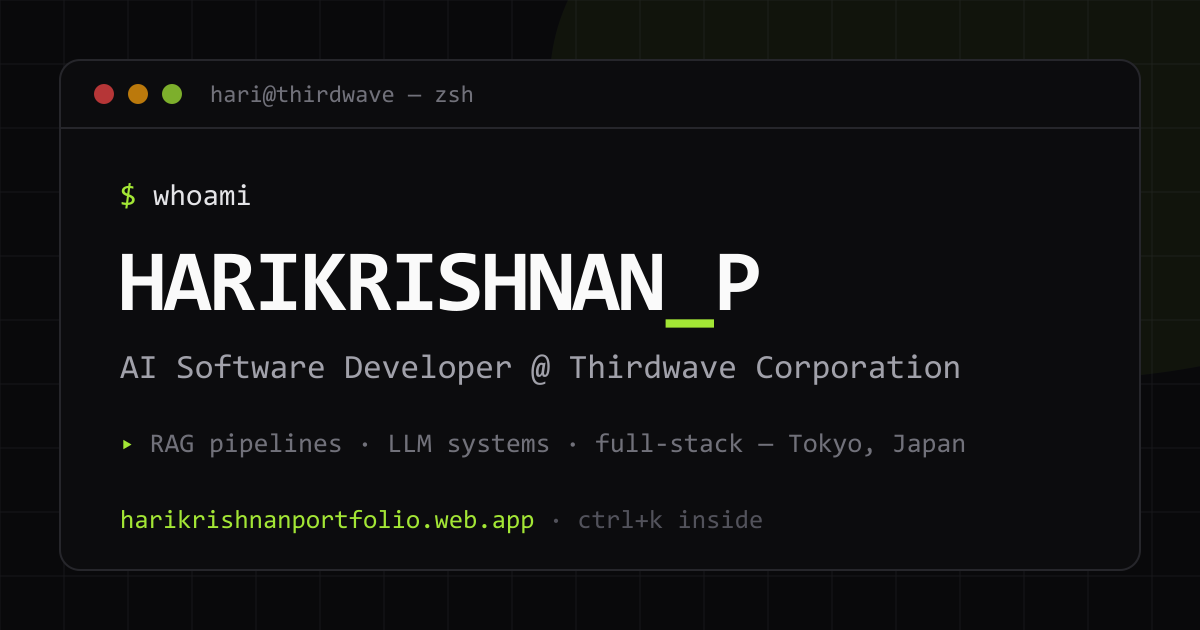
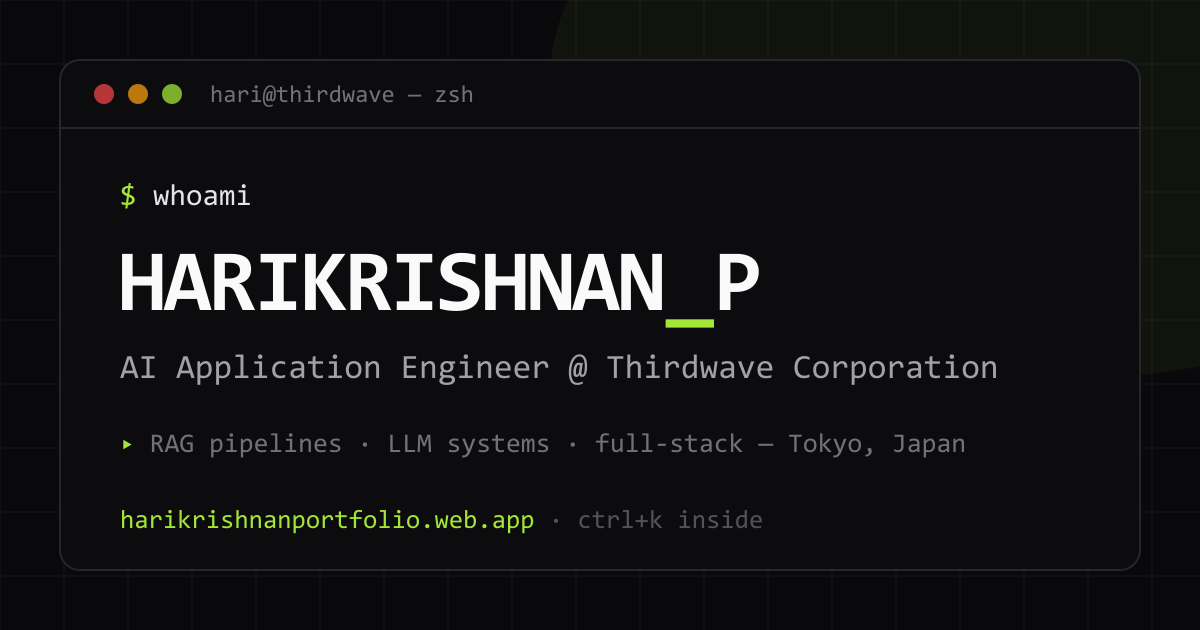
Update site content from latest resume

Changed region(s): [[0.1233, 0.5429, 0.8325, 0.6032]]

diff --git a/src/i18n.jsx b/src/i18n.jsx
@@ -2,6 +2,7 @@ import { createContext, useContext, useEffect, useState } from 'react'
 
 const T = {
   en: {
+    resume: '/assets/P.HARIKRISHNAN Resume.pdf',
     nav: {
       about: 'about',
       projects: 'projects',
@@ -13,7 +14,7 @@ const T = {
     hero: {
       status: 'open to interesting problems — tokyo, japan',
       nameKana: '',
-      roles: ['AI Software Developer', 'RAG Engineer', 'Full Stack Developer', 'ML Systems Builder'],
+      roles: ['AI Application Engineer', 'RAG Engineer', 'Full Stack Developer', 'ML Systems Builder'],
       pitch:
         'I build AI systems that ship — Retrieval-Augmented Generation pipelines and LLM-powered applications at Thirdwave Corporation, with a full-stack background across web and mobile.',
       viewWork: 'view work',
@@ -23,7 +24,7 @@ const T = {
       termTitle: 'hari@thirdwave — zsh',
       script: [
         { type: 'cmd', text: 'whoami' },
-        { type: 'out', text: 'Harikrishnan P — AI Software Developer @ Thirdwave Corporation 🇯🇵' },
+        { type: 'out', text: 'Harikrishnan P — AI Application Engineer @ Thirdwave Corporation 🇯🇵' },
         { type: 'cmd', text: 'cat ./current-focus', pause: 500 },
         { type: 'out', text: '▸ RAG pipelines · LLM workflows · production AI systems' },
         { type: 'cmd', text: 'uptime --career', pause: 500 },
@@ -35,9 +36,9 @@ const T = {
       cmd: 'cat ./about.md',
       modulesCmd: 'modules --loaded',
       p1: [
-        "I'm an AI Software Developer at ",
+        "I'm an AI Application Engineer in the Digital Innovation Division at ",
         'Thirdwave Corporation, Tokyo',
-        ', where I work on Retrieval-Augmented Generation systems and intelligent applications. With hands-on experience across AI, web, and mobile, I specialize in building solutions that are technically robust and genuinely pleasant to use.',
+        ', where I build Retrieval-Augmented Generation systems and intelligent applications. With hands-on experience across AI, web, and mobile, I specialize in building solutions that are technically robust and genuinely pleasant to use.',
       ],
       p2: 'Before Tokyo: a B.Tech in Information Technology from MSEC, internships in software development and networking, and real products shipped for real organizations while still a student.',
       trustedBy: 'trusted by',
@@ -72,12 +73,12 @@ const T = {
       current: 'current',
       items: {
         'Thirdwave Corporation': {
-          role: 'AI Software Developer',
+          role: 'AI Application Engineer · Digital Innovation Div. 3',
           place: 'Tokyo, Japan 🇯🇵',
           points: [
-            'Building Retrieval-Augmented Generation (RAG) pipelines for intelligent document and knowledge retrieval.',
-            'Designing and integrating LLM-based workflows into production applications.',
-            'Collaborating with cross-functional teams in Japan on cutting-edge AI projects.',
+            'Built the internal regulations Q&A system — a RAG-powered AI chatbot for company-wide use (Dec 2025).',
+            'Developing a file management system PoC for internal operations (Jun 2026 — present).',
+            'Seconded to Computer Science Laboratory (Kitakyushu) to build the Android version of the "Eye Navi" navigation app (Jul–Sep 2026).',
           ],
         },
         'The Nest School': {
@@ -170,6 +171,7 @@ const T = {
   },
 
   ja: {
+    resume: '/assets/Harikrishnan_Rirekisho.pdf',
     nav: {
       about: '自己紹介',
       projects: 'プロジェクト',
@@ -181,7 +183,7 @@ const T = {
     hero: {
       status: '面白い課題を探しています — 東京、日本',
       nameKana: 'ハリクリシュナン・P',
-      roles: ['AIソフトウェア開発者', 'RAGエンジニア', 'フルスタック開発者', 'MLシステム構築者'],
+      roles: ['AIアプリケーションエンジニア', 'RAGエンジニア', 'フルスタック開発者', 'MLシステム構築者'],
       pitch:
         '株式会社サードウェーブグループ（東京）で、RAGパイプラインやLLMを活用したアプリケーションを開発しています。Webからモバイルまでのフルスタック経験を持ち、「実際に届くAIシステム」を作ることにこだわっています。',
       viewWork: '作品を見る',
@@ -191,7 +193,7 @@ const T = {
       termTitle: 'hari@サードウェーブ — zsh',
       script: [
         { type: 'cmd', text: 'whoami' },
-        { type: 'out', text: 'ハリクリシュナン・P — AIソフトウェア開発者 @ 株式会社サードウェーブグループ 🇯🇵' },
+        { type: 'out', text: 'ハリクリシュナン・P — AIアプリケーションエンジニア @ 株式会社サードウェーブグループ 🇯🇵' },
         { type: 'cmd', text: 'cat ./いまの注力分野', pause: 500 },
         { type: 'out', text: '▸ RAGパイプライン · LLMワークフロー · 本番AIシステム' },
         { type: 'cmd', text: 'cat ./経歴まとめ', pause: 500 },
@@ -205,7 +207,7 @@ const T = {
       p1: [
         '',
         '株式会社サードウェーブグループ（東京）',
-        'のAIソフトウェア開発者として、RAG（検索拡張生成）システムとインテリジェントなアプリケーションの開発に携わっています。AI・Web・モバイル領域での実践経験を活かし、技術的に堅牢で、使っていて心地よいソリューションづくりを得意としています。',
+        'のデジタルイノベーション部で、AIアプリケーションエンジニアとしてRAG（検索拡張生成）システムやインテリジェントなアプリケーションの開発に携わっています。AI・Web・モバイル領域での実務経験を活かし、技術力と使いやすさを両立したソリューションの構築を得意としています。',
       ],
       p2: '東京に来る前は、MSECで情報技術の学士号（B.Tech）を取得。ソフトウェア開発とネットワークのインターンシップを経験し、学生時代から実在の組織のためにプロダクトを開発・納品してきました。',
       trustedBy: '信頼いただいている組織',
@@ -241,12 +243,12 @@ const T = {
       items: {
         'Thirdwave Corporation': {
           company: '株式会社サードウェーブグループ',
-          role: 'AIソフトウェア開発者',
+          role: 'AIアプリケーションエンジニア · デジタルイノベーション３部',
           place: '東京、日本 🇯🇵',
           points: [
-            'ドキュメントやナレッジの高度な検索を実現するRAG（検索拡張生成）パイプラインの構築。',
-            'LLMベースのワークフローを本番アプリケーションへ設計・統合。',
-            '日本の部門横断チームと最先端AIプロジェクトで協働。',
+            '「社内規定QAシステム」を開発 — RAGを活用した社内向けAIチャットボット（2025年12月）。',
+            '「ファイル管理システム（PoC）」を開発中（2026年6月〜現在）。',
+            '株式会社コンピュータサイエンス研究所（北九州市）に出向し、iOSナビアプリ「Eye Navi」のAndroid版開発を担当（2026年7月〜9月）。',
           ],
         },
         'The Nest School': {

diff --git a/index.html b/index.html
@@ -4,19 +4,19 @@
     <meta charset="UTF-8" />
     <link rel="icon" type="image/svg+xml" href="/favicon.svg" />
     <meta name="viewport" content="width=device-width, initial-scale=1.0" />
-    <meta name="description" content="Harikrishnan P — AI Software Developer at Thirdwave Corporation, Japan. Building RAG pipelines and intelligent applications." />
+    <meta name="description" content="Harikrishnan P — AI Application Engineer at Thirdwave Corporation, Japan. Building RAG pipelines and intelligent applications." />
 
     <!-- Open Graph -->
-    <meta property="og:title" content="Harikrishnan P — AI Software Developer" />
-    <meta property="og:description" content="AI Software Developer at Thirdwave Corporation, Japan. Building RAG pipelines, LLM systems, and full-stack applications." />
+    <meta property="og:title" content="Harikrishnan P — AI Application Engineer" />
+    <meta property="og:description" content="AI Application Engineer at Thirdwave Corporation, Japan. Building RAG pipelines, LLM systems, and full-stack applications." />
     <meta property="og:type" content="website" />
     <meta property="og:url" content="https://harikrishnanportfolio.web.app/" />
     <meta property="og:image" content="https://harikrishnanportfolio.web.app/assets/og-card.png" />
     <meta property="og:image:width" content="1200" />
     <meta property="og:image:height" content="630" />
     <meta name="twitter:card" content="summary_large_image" />
-    <meta name="twitter:title" content="Harikrishnan P — AI Software Developer" />
-    <meta name="twitter:description" content="AI Software Developer at Thirdwave Corporation, Japan." />
+    <meta name="twitter:title" content="Harikrishnan P — AI Application Engineer" />
+    <meta name="twitter:description" content="AI Application Engineer at Thirdwave Corporation, Japan." />
     <meta name="twitter:image" content="https://harikrishnanportfolio.web.app/assets/og-card.png" />
 
     <title>Harikrishnan P — Portfolio</title>
@@ -41,7 +41,7 @@
         "name": "Harikrishnan P",
         "url": "https://harikrishnanportfolio.web.app/",
         "image": "https://harikrishnanportfolio.web.app/assets/images/my-avatar.webp",
-        "jobTitle": "AI Software Developer",
+        "jobTitle": "AI Application Engineer",
         "worksFor": { "@type": "Organization", "name": "Thirdwave Corporation" },
         "address": { "@type": "PostalAddress", "addressLocality": "Tokyo", "addressCountry": "JP" },
         "sameAs": [

diff --git a/src/data.js b/src/data.js
@@ -1,10 +1,6 @@
 export const EMAIL = '[email redacted]'
 export const GITHUB = 'https://github.com/AMAZINGHARIKRISHNAN'
 export const LINKEDIN = 'https://www.linkedin.com/in/hari-krishnan-p-1854a51b2/'
-export const RESUME = '/assets/P.HARIKRISHNAN Resume.pdf'
-
-export const ROLES = ['AI Software Developer', 'RAG Engineer', 'Full Stack Developer', 'ML Systems Builder']
-
 export const projects = [
   {
     id: 'adminxpert',
@@ -74,14 +70,14 @@ export const projects = [
 export const experience = [
   {
     company: 'Thirdwave Corporation',
-    role: 'AI Software Developer',
+    role: 'AI Application Engineer · Digital Innovation Div. 3',
     place: 'Tokyo, Japan 🇯🇵',
     period: '2025 — present',
     current: true,
     points: [
-      'Building Retrieval-Augmented Generation (RAG) pipelines for intelligent document and knowledge retrieval.',
-      'Designing and integrating LLM-based workflows into production applications.',
-      'Collaborating with cross-functional teams in Japan on cutting-edge AI projects.',
+      'Built the internal regulations Q&A system — a RAG-powered AI chatbot for company-wide use (Dec 2025).',
+      'Developing a file management system PoC for internal operations (Jun 2026 — present).',
+      'Seconded to Computer Science Laboratory (Kitakyushu) to build the Android version of the "Eye Navi" navigation app (Jul–Sep 2026).',
     ],
   },
   {

diff --git a/src/components/CommandPalette.jsx b/src/components/CommandPalette.jsx
@@ -1,7 +1,7 @@
 import { useState, useEffect, useRef } from 'react'
 import { motion, AnimatePresence } from 'framer-motion'
 import { Hash, FileDown, Copy, Github, Linkedin, CornerDownLeft } from 'lucide-react'
-import { EMAIL, GITHUB, LINKEDIN, RESUME } from '../data'
+import { EMAIL, GITHUB, LINKEDIN } from '../data'
 import { useT } from '../i18n'
 
 const goto = (id) => document.getElementById(id)?.scrollIntoView({ behavior: 'smooth' })
@@ -16,7 +16,7 @@ export default function CommandPalette({ open, setOpen }) {
 
   const actions = [
     ...SECTIONS.map((id) => ({ id, label: t.palette.goto[id], icon: Hash, run: () => goto(id) })),
-    { id: 'cv', label: t.palette.cv, icon: FileDown, run: () => window.open(RESUME, '_blank') },
+    { id: 'cv', label: t.palette.cv, icon: FileDown, run: () => window.open(t.resume, '_blank') },
     { id: 'email', label: t.palette.email, icon: Copy, run: () => navigator.clipboard.writeText(EMAIL) },
     { id: 'github', label: t.palette.github, icon: Github, run: () => window.open(GITHUB, '_blank') },
     { id: 'linkedin', label: t.palette.linkedin, icon: Linkedin, run: () => window.open(LINKEDIN, '_blank') },

diff --git a/src/components/Hero.jsx b/src/components/Hero.jsx
@@ -2,7 +2,6 @@ import { useState, useEffect } from 'react'
 import { motion } from 'framer-motion'
 import { ArrowDown, FileDown } from 'lucide-react'
 import { useTypewriter } from '../hooks/useTypewriter'
-import { RESUME } from '../data'
 import { useT } from '../i18n'
 
 // Reveals the script one character at a time: commands type slowly,
@@ -105,7 +104,7 @@ export default function Hero() {
               {t.hero.viewWork} <ArrowDown size={15} />
             </a>
             <a
-              href={RESUME}
+              href={t.resume}
               download
               className="inline-flex items-center gap-2 px-6 py-3 rounded-lg border border-zinc-700 text-zinc-300 hover:border-lime-400/60 hover:text-lime-400 transition-colors"
             >

diff --git a/src/components/Skills.jsx b/src/components/Skills.jsx
@@ -2,7 +2,7 @@ import {
   SiJavascript, SiPython, SiReact, SiHtml5, SiCss,
   SiTailwindcss, SiNodedotjs, SiFirebase, SiMysql,
   SiFlutter, SiGit, SiGithub, SiFigma, SiCanva,
-  SiLangchain, SiOpenai, SiC,
+  SiLangchain, SiOpenai, SiC, SiFastapi,
 } from 'react-icons/si'
 import { FaJava } from 'react-icons/fa'
 import { BrainCircuit, Database, Wand2 } from 'lucide-react'
@@ -43,6 +43,7 @@ const groups = [
     label: 'backend & db',
     skills: [
       { name: 'node.js', icon: SiNodedotjs, color: '#339933' },
+      { name: 'fastapi', icon: SiFastapi, color: '#059487' },
       { name: 'firebase', icon: SiFirebase, color: '#FFCA28' },
       { name: 'mysql', icon: SiMysql, color: '#4479A1' },
     ],

diff --git a/README.md b/README.md
@@ -1,6 +1,6 @@
 # Harikrishnan P — Portfolio
 
-Personal portfolio of **Harikrishnan P**, AI Software Developer at Thirdwave Corporation, Japan.
+Personal portfolio of **Harikrishnan P**, AI Application Engineer at Thirdwave Corporation, Japan.
 
 **Live site:** https://harikrishnanportfolio.web.app
 